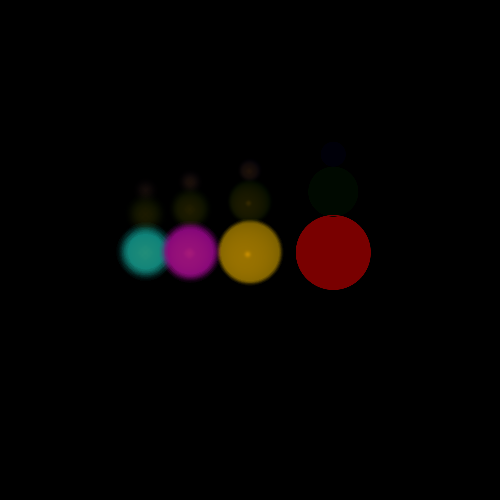
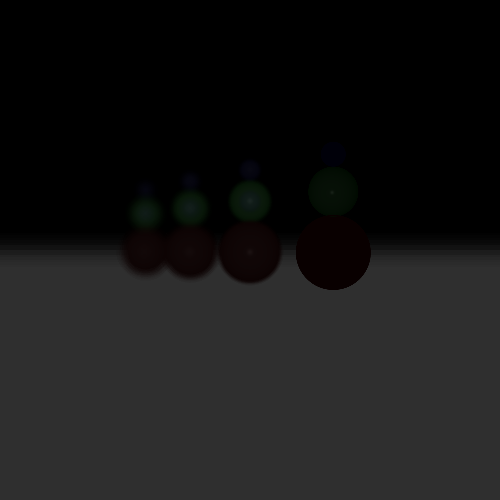
t8

diff --git a/Tests/elements/DepthOfFieldTests.java b/Tests/elements/DepthOfFieldTests.java
@@ -222,7 +222,7 @@ public class DepthOfFieldTests {
 
         Scene scene = new Scene("Test scene");
         Camera camera = new Camera(new Point3D(0, 0, 1000), new Vector(0, 0, -1), new Vector(0, 1, 0)) //
-                .setViewPlaneSize(200, 200).setDistance(1000)
+                .setViewPlaneSize(100, 100).setDistance(1000)
                 .setDepthOfFiled(10, 0.3, 200);
 
         scene.setAmbientLight(new AmbientLight(new Color(java.awt.Color.WHITE), 0.15));
@@ -262,42 +262,55 @@ public class DepthOfFieldTests {
 
         scene.geometries.add(
 
-
-
+                new Plane(new Point3D(-100, 400, 200), new Vector(0, 1, 0))
+                        .setEmission(new Color(100, 100, 100))//
+                        .setMaterial(new Material().setKd(0.3).setKs(0.7).setShininess(100).setKr(0.6)), //
 
 
                 new Sphere(45, new Point3D(-200, 3, 600)) //
-                        .setEmission(new Color(java.awt.Color.CYAN))//
+                        .setEmission(new Color(20, 0, 0))//
                         .setMaterial(new Material().setKd(0.3).setKs(0.7).setShininess(100)), //
 
                 new Sphere(45, new Point3D(-100, 3, 400)) //
-                        .setEmission(new Color(java.awt.Color.MAGENTA)) //
+                        .setEmission(new Color(20, 0, 0)) //
                         .setMaterial(new Material().setKd(0.3).setKs(0.7).setShininess(100)), //
 
                 new Sphere(45, new Point3D(0, 3, 200)) //
-                        .setEmission(new Color(java.awt.Color.ORANGE)) //
+                        .setEmission(new Color(20, 0, 0)) //
                         .setMaterial(new Material().setKd(0.3).setKs(0.7).setShininess(100)), //
 
                 new Sphere(45, new Point3D(100, 3, 0)) //
-                        .setEmission(new Color(java.awt.Color.RED)) //
+                        .setEmission(new Color(20, 0, 0)) //
                         .setMaterial(new Material().setKd(0.3).setKs(0.7).setShininess(100)), //
 
 
                 new Sphere(30, new Point3D(-200, -70, 600)) //
                         .setEmission(new Color(0, 20, 0)) //
-                        .setMaterial(new Material().setKd(0.3).setKs(0.7).setShininess(100)), //
+                        .setMaterial(new Material().setKd(0.3).setKs(0.7).setShininess(100).setKt(1)), //
 
                 new Sphere(30, new Point3D(-100, -70, 400)) //
                         .setEmission(new Color(0, 20, 0)) //
-                        .setMaterial(new Material().setKd(0.3).setKs(0.7).setShininess(100)), //
+                        .setMaterial(new Material().setKd(0.3).setKs(0.7).setShininess(100).setKt(1)), //
 
                 new Sphere(30, new Point3D(0, -70, 200)) //
                         .setEmission(new Color(0, 20, 0)) //
-                        .setMaterial(new Material().setKd(0.3).setKs(0.7).setShininess(100)), //
+                        .setMaterial(new Material().setKd(0.3).setKs(0.7).setShininess(100).setKt(1)), //
+
+                new Sphere(15, new Point3D(-200, -70, 600)) //
+                        .setEmission(new Color(0, 0, 20)) //
+                        .setMaterial(new Material().setKd(0.3).setKs(0.7).setShininess(100).setKt(0.6)), //
+
+                new Sphere(15, new Point3D(-100, -70, 400)) //
+                        .setEmission(new Color(0, 0, 20)) //
+                        .setMaterial(new Material().setKd(0.3).setKs(0.7).setShininess(100).setKt(0.6)), //
+
+                new Sphere(15, new Point3D(0, -70, 200)) //
+                        .setEmission(new Color(0, 0, 20)) //
+                        .setMaterial(new Material().setKd(0.3).setKs(0.7).setShininess(100).setKt(0.6)), //
 
                 new Sphere(30, new Point3D(100, -70, 0)) //
                         .setEmission(new Color(0, 20, 0)) //
-                        .setMaterial(new Material().setKd(0.3).setKs(0.7).setShininess(100)), //
+                        .setMaterial(new Material().setKd(0.3).setKs(0.7).setShininess(100).setKt(1)), //), //
 
 
                 new Sphere(15, new Point3D(-200, -115, 600)) //
@@ -317,14 +330,21 @@ public class DepthOfFieldTests {
                         .setMaterial(new Material().setKd(0.3).setKs(0.7).setShininess(100)) //
 
 
-
-
-
         );
 
 
-        scene.lights.add(new SpotLight(new Color(1000, 600, 0), new Point3D(-100, 100, -500), new Vector(-1, 1, 2))
-                .setKl(0.0004).setKq(0.0000006));
+//        scene.lights.add(new SpotLight(new Color(100, 100, 100), new Point3D(-100, -115, -50), new Vector(0, -1, 0))
+//                .setKl(0.0004).setKq(0.0000006));
+//        scene.lights.add(new SpotLight(new Color(100, 600, 100), new Point3D(0, -115, 150), new Vector(0, -1, 0))
+//                .setKl(0.0004).setKq(0.0000006));
+//        scene.lights.add(new SpotLight(new Color(100, 100, 100), new Point3D(-100, -115, 350), new Vector(0, -1, 0))
+//                .setKl(0.0004).setKq(0.0000006));
+//        scene.lights.add(new SpotLight(new Color(100, 100, 100), new Point3D(-200, -115, 550), new Vector(0, -1, 0))
+//                .setKl(4E-5).setKq(2E-7));
+//        scene.lights.add(new SpotLight(new Color(700, 400, 400), new Point3D(60, 50, 0), new Vector(0, 0, -1)) //
+//                .setKl(4E-5).setKq(2E-7));
+        scene.lights.add(new DirectionalLight(new Color(100, 100, 100), new Vector(0, 0, 1)));
+
 
         Render render = new Render()
                 .setImageWriter(new ImageWriter("New", 500, 500)) //
